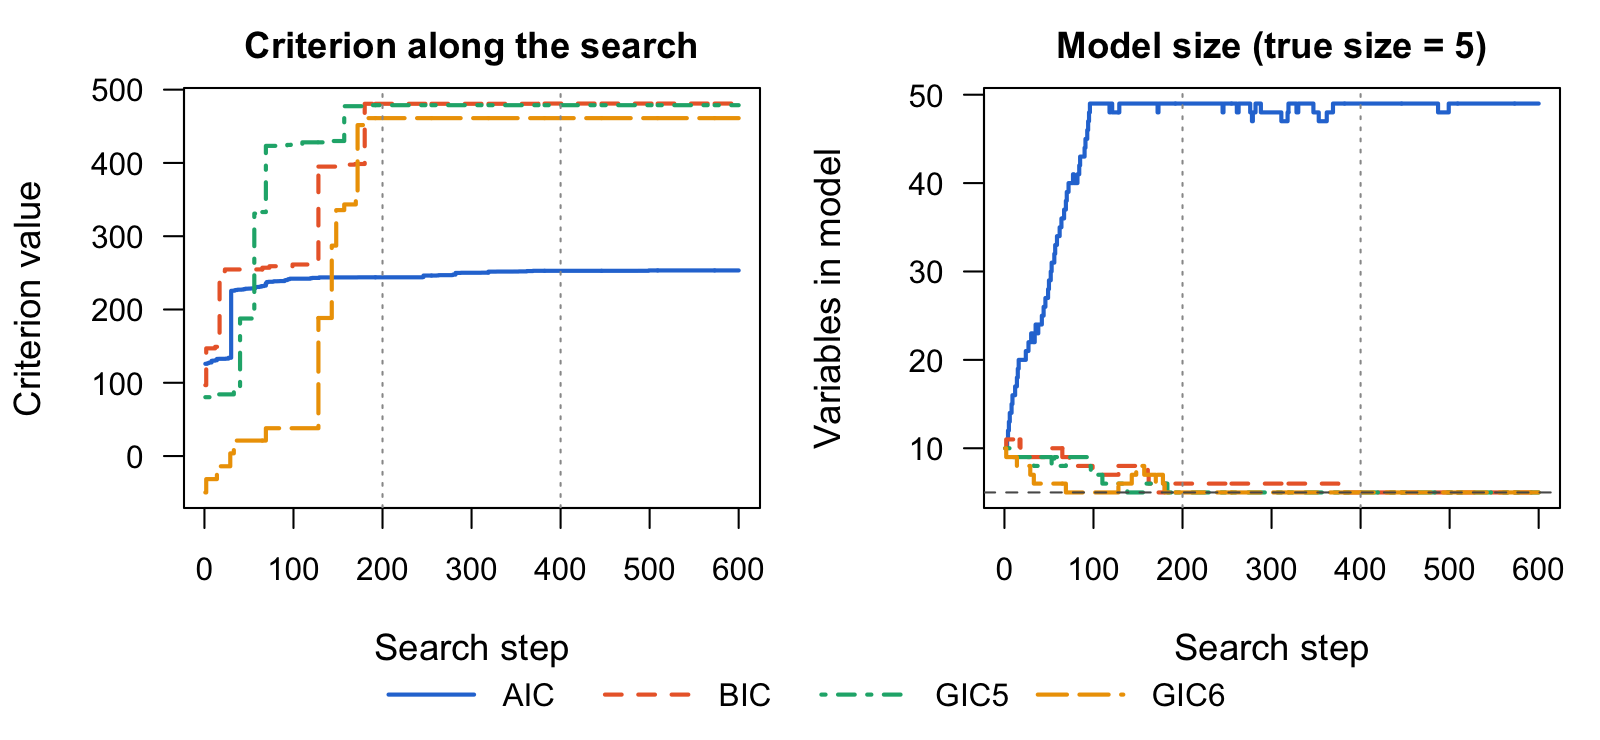
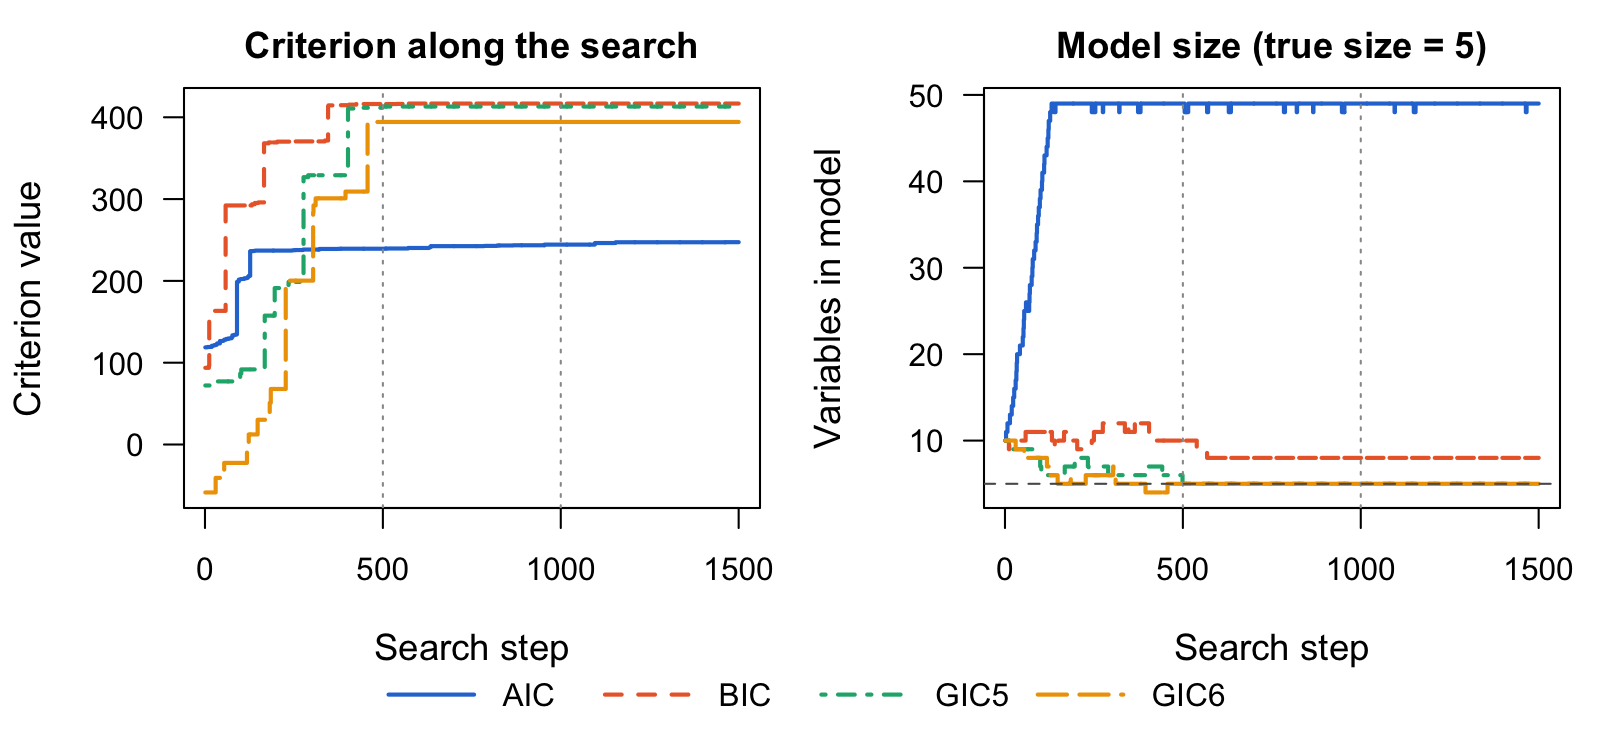
Trim README examples: drop EBIC quick-start, keep three GLMs, same n and p
All examples now use n = 1000 and p = 500. The GLM section keeps
Poisson, binomial and multinomial; the quick-start EBIC example and its
figure are removed, and the multivariate section is titled Multivariate
normal.

diff --git a/README.md b/README.md
@@ -31,45 +31,14 @@ setup_julia()
 install_julia_packages()   # first time only
 ```
 
-## Example
-
-Simulate data with 200 candidate predictors, 5 of them active, and select
-variables with EBIC:
-
-```r
-set.seed(1)
-n <- 300; p <- 200
-X <- matrix(rnorm(n * p), n, p)
-beta <- c(2, -1.5, 1, 1, -1, rep(0, p - 5))
-Y <- LP_to_Y(X, beta, family = "Normal")
-
-fit <- GICSelection(X, Y,
-  Initial_Column      = 1:20,
-  Calculate_GIC       = "Calculate_EBIC",
-  Calculate_GIC_short = "Calculate_EBIC_short",
-  k = 50, Nsim = 3
-)
-
-sort(fit$selected_coeffs[[length(fit$selected_coeffs)]])
-#> [1] 1 2 3 4 5
-```
-
-The search starts from 20 variables, removes the 15 noise variables and keeps
-the 5 true ones within its first pass over the predictors (each dotted line
-marks a new pass):
-
-![EBIC and model size along the search](man/figures/README-search.png)
-
-For the available criteria and response families, see the Get started
-article, `vignette("get-started")`.
-
-## More examples
+## Examples
 
 The examples below compare four criteria on the same data. In increasing
 order of penalty per variable, they are AIC ($c_n = 1$), BIC ($\log n$),
 GIC5 ($\log\log n \, \log P$) and GIC6 ($\log n \, \log P$). The
 [Examples article](https://yuchenxiao95.github.io/GICHighDimension/articles/examples.html)
-(`vignette("examples")`) explains each step.
+(`vignette("examples")`) explains each step, and the Get started article
+(`vignette("get-started")`) lists all criteria and response families.
 
 First define a few helpers. Data simulation and the search order use Julia's
 random number generator, which `set.seed()` does not control, so
@@ -141,7 +110,7 @@ $P$. BIC keeps all 5 true predictors and one noise variable. GIC5 and GIC6,
 whose penalties grow with $\log P$, select exactly the true model, and GIC6,
 the largest penalty, gets there fastest.
 
-### Several responses (multivariate normal)
+### Multivariate normal
 
 Five responses, each with its own 5 predictors and coefficients from 10
 down to 0.1. Pass the $n \times 5$ response matrix as `Y`:
@@ -178,53 +147,17 @@ inside a model of 276 variables.
 
 For a non-Gaussian response, map it to the linear-predictor scale with
 `Y_to_LP()`, select with `GICSelection()`, and then fit the selected model
-with `Beta_estimate()`. All GLM examples share this setup: $n = 1000$,
-$p = 200$, 5 true predictors, and searches that start from the first 10
-columns.
+with `Beta_estimate()`. The GLM examples reuse the design matrix `X` from
+above ($n = 1000$, $p = 500$), with 5 true predictors, and start each search
+from the first 10 columns.
 
 ```r
 set_seeds(2)
-n <- 1000; p <- 200
-X <- matrix(rnorm(n * p), n, p)
 true_cols <- c(3, 17, 42, 88, 150)
 beta <- numeric(p); beta[true_cols] <- c(1, -1, 0.8, -0.8, 0.6)
 
 compare_glm <- function(Y, ...) compare_criteria(X, Y_to_LP(Y, ...), 1:10, k = 50, Nsim = 3)
 ```
-
-#### Logistic regression (Bernoulli)
-
-```r
-y_bern <- LP_to_Y(X, beta, family = "Bernoulli")
-fits <- compare_glm(y_bern, family = "Bernoulli")
-selection_table(fits, true_cols)
-#>      size false_pos false_neg
-#> AIC    49        45         1
-#> BIC     7         2         0
-#> GIC5    5         0         0
-#> GIC6    5         0         0
-
-# Coefficients of the GIC6 model, intercept first
-round(Beta_estimate(X[, last_model(fits$GIC6)], y_bern, family = "Bernoulli"), 2)
-#> [1] -0.07  0.81 -1.05  0.78 -0.85  0.59
-```
-
-![Criteria and model size along the search, Bernoulli response](man/figures/README-bernoulli.png)
-
-#### Binomial counts (10 trials)
-
-```r
-y_binom <- LP_to_Y(X, beta, family = "Binomial", n_trials = 10)
-fits <- compare_glm(y_binom, family = "Binomial", n_trials = 10)
-selection_table(fits, true_cols)
-#>      size false_pos false_neg
-#> AIC    49        47         3
-#> BIC     5         0         0
-#> GIC5    5         0         0
-#> GIC6    5         0         0
-```
-
-![Criteria and model size along the search, binomial response](man/figures/README-binomial.png)
 
 #### Poisson regression
 
@@ -233,61 +166,32 @@ y_pois <- LP_to_Y(X, beta, family = "Poisson")
 fits <- compare_glm(y_pois, family = "Poisson")
 selection_table(fits, true_cols)
 #>      size false_pos false_neg
-#> AIC    49        45         1
-#> BIC     8         3         0
+#> AIC    49        46         2
+#> BIC     7         2         0
 #> GIC5    5         0         0
 #> GIC6    5         0         0
 
+# Coefficients of the GIC6 model, intercept first
 round(Beta_estimate(X[, last_model(fits$GIC6)], y_pois, family = "Poisson"), 2)
-#> [1] -0.02  1.01 -1.01  0.81 -0.80  0.59
+#> [1] -0.05  1.04 -1.02  0.80 -0.80  0.60
 ```
 
 ![Criteria and model size along the search, Poisson response](man/figures/README-poisson.png)
 
-#### Overdispersed counts (negative binomial, size 2)
+#### Binomial counts (10 trials)
 
 ```r
-y_nb <- LP_to_Y(X, beta, family = "NegativeBinomial", theta = 2)
-fits <- compare_glm(y_nb, family = "NegativeBinomial")
+y_binom <- LP_to_Y(X, beta, family = "Binomial", n_trials = 10)
+fits <- compare_glm(y_binom, family = "Binomial", n_trials = 10)
 selection_table(fits, true_cols)
 #>      size false_pos false_neg
-#> AIC    49        44         0
-#> BIC     5         0         0
+#> AIC    49        46         2
+#> BIC     8         3         0
 #> GIC5    5         0         0
 #> GIC6    5         0         0
 ```
 
-![Criteria and model size along the search, negative binomial response](man/figures/README-negbin.png)
-
-#### Gamma (log link)
-
-```r
-y_gamma <- LP_to_Y(X, beta, family = "Gamma", shape = 2)
-fits <- compare_glm(y_gamma, family = "Gamma")
-selection_table(fits, true_cols)
-#>      size false_pos false_neg
-#> AIC    48        43         0
-#> BIC     6         1         0
-#> GIC5    6         1         0
-#> GIC6    5         0         0
-```
-
-![Criteria and model size along the search, gamma response](man/figures/README-gamma.png)
-
-#### Inverse Gaussian (log link)
-
-```r
-y_ig <- LP_to_Y(X, beta, family = "InverseGaussian", shape = 2)
-fits <- compare_glm(y_ig, family = "InverseGaussian")
-selection_table(fits, true_cols)
-#>      size false_pos false_neg
-#> AIC    49        44         0
-#> BIC     5         0         0
-#> GIC5    5         0         0
-#> GIC6    5         0         0
-```
-
-![Criteria and model size along the search, inverse Gaussian response](man/figures/README-invgauss.png)
+![Criteria and model size along the search, binomial response](man/figures/README-binomial.png)
 
 #### Multinomial (three categories)
 
@@ -301,16 +205,15 @@ y_mn <- LP_to_Y(X, B_mn, family = "Multinomial", n_categories = 3)
 fits <- compare_glm(y_mn, family = "Multinomial", n_categories = 3)
 selection_table(fits, true_cols)
 #>      size false_pos false_neg
-#> AIC    49        45         1
-#> BIC     6         1         0
+#> AIC    49        46         2
+#> BIC    10         5         0
 #> GIC5    5         0         0
 #> GIC6    5         0         0
 ```
 
 ![Criteria and model size along the search, multinomial response](man/figures/README-multinomial.png)
 
-Across the seven families, GIC6 selects exactly the 5 true predictors every
-time, and GIC5 does so in all but the gamma example. BIC adds up to 3 noise
-variables. AIC grows the model until it hits the size cap (`k = 50`, so at
-most 49 variables), and once that cap blocks further additions it can miss a
-true predictor.
+In all three GLMs, GIC5 and GIC6 select exactly the 5 true predictors. BIC
+keeps the true predictors but adds 2 to 5 noise variables. AIC grows the
+model until it hits the size cap (`k = 50`, so at most 49 variables) and
+misses 2 true predictors.

diff --git a/NEWS.md b/NEWS.md
@@ -12,8 +12,8 @@
 ## New features
 
 * New article, `vignette("examples")`: worked simulations for a linear model
-  with 500 predictors, a multivariate-normal response and every GLM family,
-  each comparing AIC, BIC, GIC5 and GIC6.
+  with 500 predictors, a multivariate-normal response, and Poisson, binomial
+  and multinomial GLMs, each comparing AIC, BIC, GIC5 and GIC6.
 * `LP_to_Y()`, `Y_to_LP()` and `Beta_estimate()` support Normal, Bernoulli,
   Binomial, Poisson, Gamma, Exponential, InverseGaussian, NegativeBinomial,
   Geometric, MultivariateNormal and Multinomial responses.
